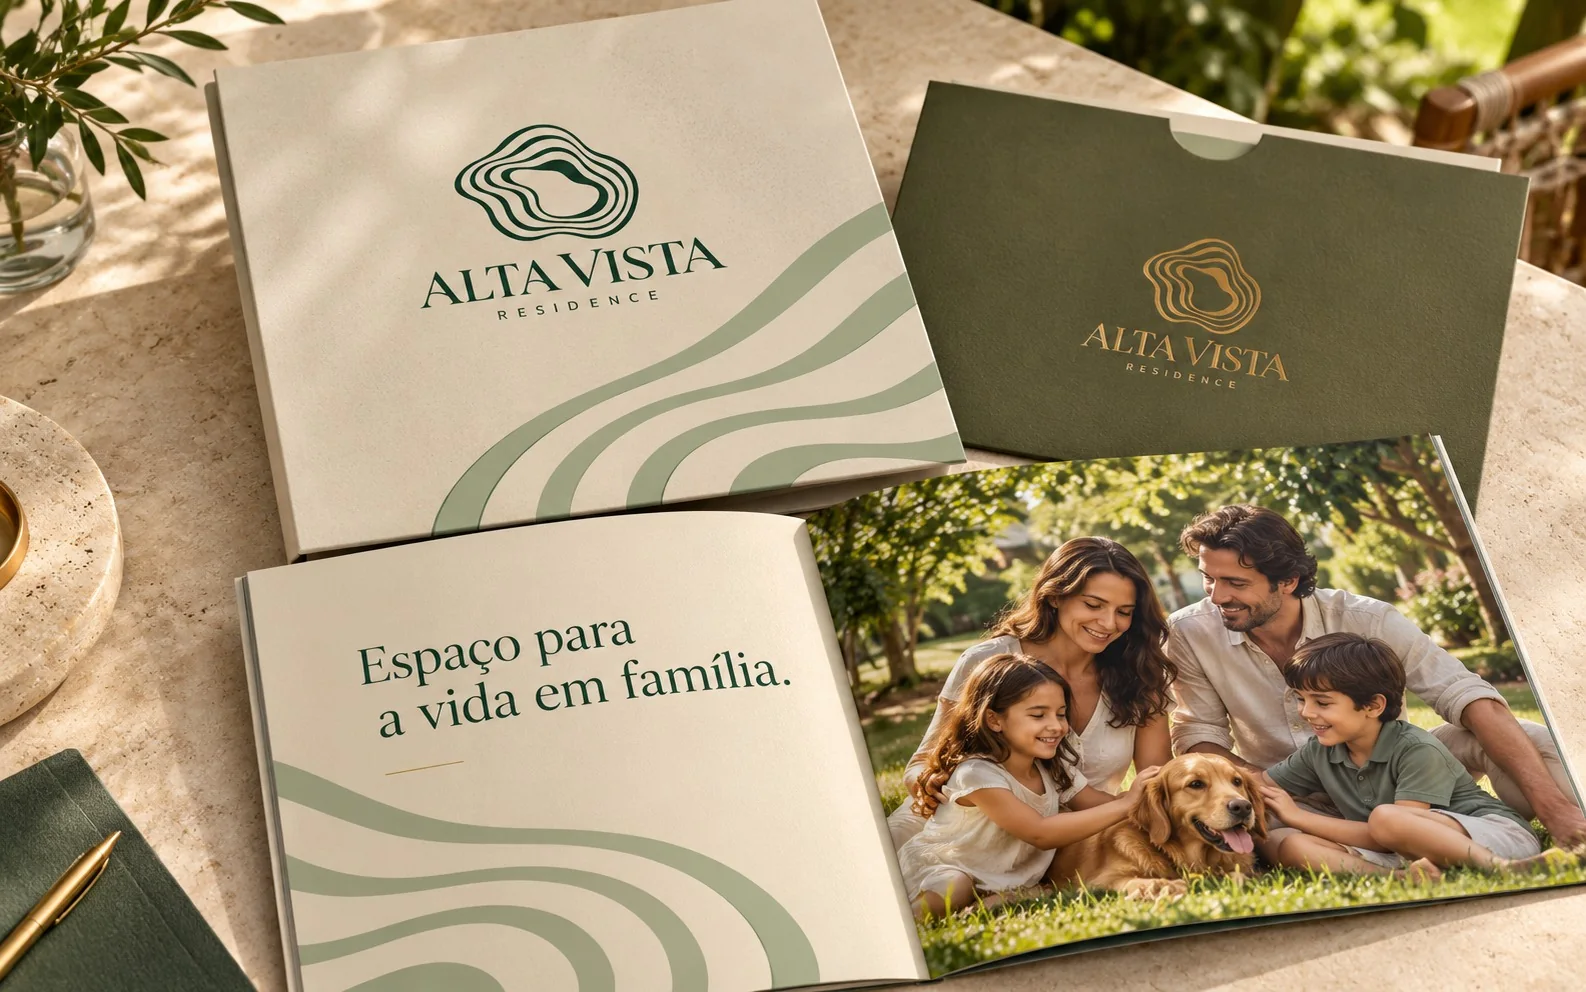
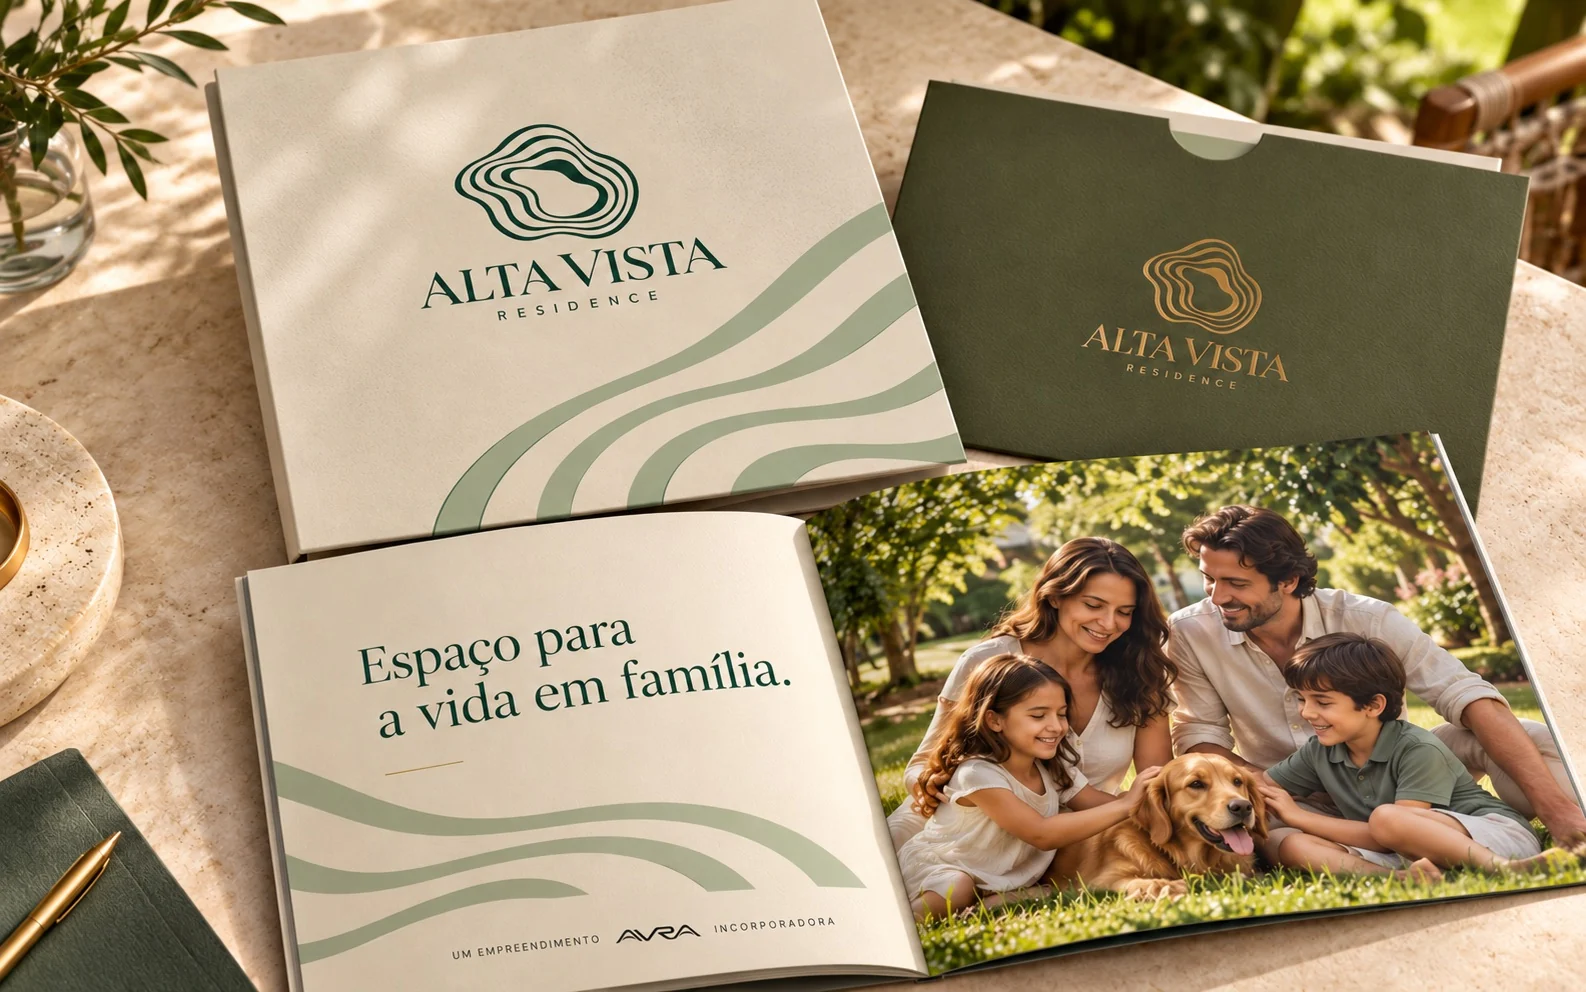
Novos mockups: apresentação comercial com endosso AVRA e recepção do pavilhão
Claude-Session: https://claude.ai/code/session_019Uw3KRTGzgMGbRku8HcvQx

diff --git a/index.html b/index.html
@@ -591,13 +591,14 @@
         <div class="gallery__head wrap">
           <p class="eyebrow">Aplicações</p>
           <h2 class="h2">Mockups da marca</h2>
-          <p class="gallery__count"><span id="galleryIndex">01</span> / 09</p>
+          <p class="gallery__count"><span id="galleryIndex">01</span> / 10</p>
         </div>
         <div class="gallery__track" id="galleryTrack">
           <figure class="gcard" data-cursor="ampliar" data-lightbox="assets/img/mockup-tapume.webp"><div class="gcard__img"><img src="assets/img/mockup-tapume.webp" alt="Tapume com painéis da marca, P01, foto de família e frase de campanha" loading="lazy"></div><figcaption><b>Campanha de tapume</b><span>Imagem, assinatura e P01 em alternância.</span></figcaption></figure>
           <figure class="gcard" data-cursor="ampliar" data-lightbox="assets/img/mockup-totem.webp"><div class="gcard__img"><img src="assets/img/mockup-totem.webp" alt="Totem de entrada em verde Oliva com símbolo e lettering em relevo dourado, ao lado de muro de pedra com o símbolo" loading="lazy"></div><figcaption><b>Totem de entrada</b><span>Relevo dourado sobre Oliva; símbolo no muro de pedra.</span></figcaption></figure>
           <figure class="gcard" data-cursor="ampliar" data-lightbox="assets/img/mockup-pavilhao.webp"><div class="gcard__img"><img src="assets/img/mockup-pavilhao.webp" alt="Recepção do pavilhão com símbolo e lettering em relevo dourado sobre parede mineral" loading="lazy"></div><figcaption><b>Pavilhão de vendas</b><span>Relevo dourado escovado sobre parede mineral.</span></figcaption></figure>
-          <figure class="gcard" data-cursor="ampliar" data-lightbox="assets/img/mockup-apresentacao.webp"><div class="gcard__img"><img src="assets/img/mockup-apresentacao.webp" alt="Livro de apresentação comercial com capa Mineral e P01 em Sálvia" loading="lazy"></div><figcaption><b>Apresentação comercial</b><span>Papel, recortes e acabamento táteis.</span></figcaption></figure>
+          <figure class="gcard" data-cursor="ampliar" data-lightbox="assets/img/mockup-recepcao.webp"><div class="gcard__img"><img src="assets/img/mockup-recepcao.webp" alt="Recepção do pavilhão com logo dourado retroiluminado, P01 jateado no vidro e cavalete com a campanha" loading="lazy"></div><figcaption><b>Recepção e sinalização</b><span>Logo retroiluminado, P01 no vidro e campanha no cavalete.</span></figcaption></figure>
+          <figure class="gcard" data-cursor="ampliar" data-lightbox="assets/img/mockup-apresentacao.webp"><div class="gcard__img"><img src="assets/img/mockup-apresentacao.webp" alt="Livro de apresentação Mineral com P01 Sálvia, luva Mata com foil dourado e página aberta com o endosso AVRA Incorporadora" loading="lazy"></div><figcaption><b>Apresentação comercial</b><span>Papel, recortes e endosso AVRA no rodapé.</span></figcaption></figure>
           <figure class="gcard" data-cursor="ampliar" data-lightbox="assets/img/mockup-instagram.webp"><div class="gcard__img"><img src="assets/img/mockup-instagram.webp" alt="Tablet e celular exibindo feed e story da marca" loading="lazy"></div><figcaption><b>Instagram e stories</b><span>Fundos, fotografia e grafismo alternados.</span></figcaption></figure>
           <figure class="gcard" data-cursor="ampliar" data-lightbox="assets/img/mockup-convite.webp"><div class="gcard__img"><img src="assets/img/mockup-convite.webp" alt="Convite em papel com baixo-relevo do P01 e fita oliva" loading="lazy"></div><figcaption><b>Convite e relacionamento</b><span>Baixo-relevo e dourado pontual.</span></figcaption></figure>
           <figure class="gcard" data-cursor="ampliar" data-lightbox="assets/img/mockup-objetos.webp"><div class="gcard__img"><img src="assets/img/mockup-objetos.webp" alt="Sacola Oliva, cartão Mineral, caderno Mata com símbolo dourado e chaveiro metálico do símbolo" loading="lazy"></div><figcaption><b>Objetos e boas-vindas</b><span>Logo na peça principal, símbolo nos detalhes.</span></figcaption></figure>
